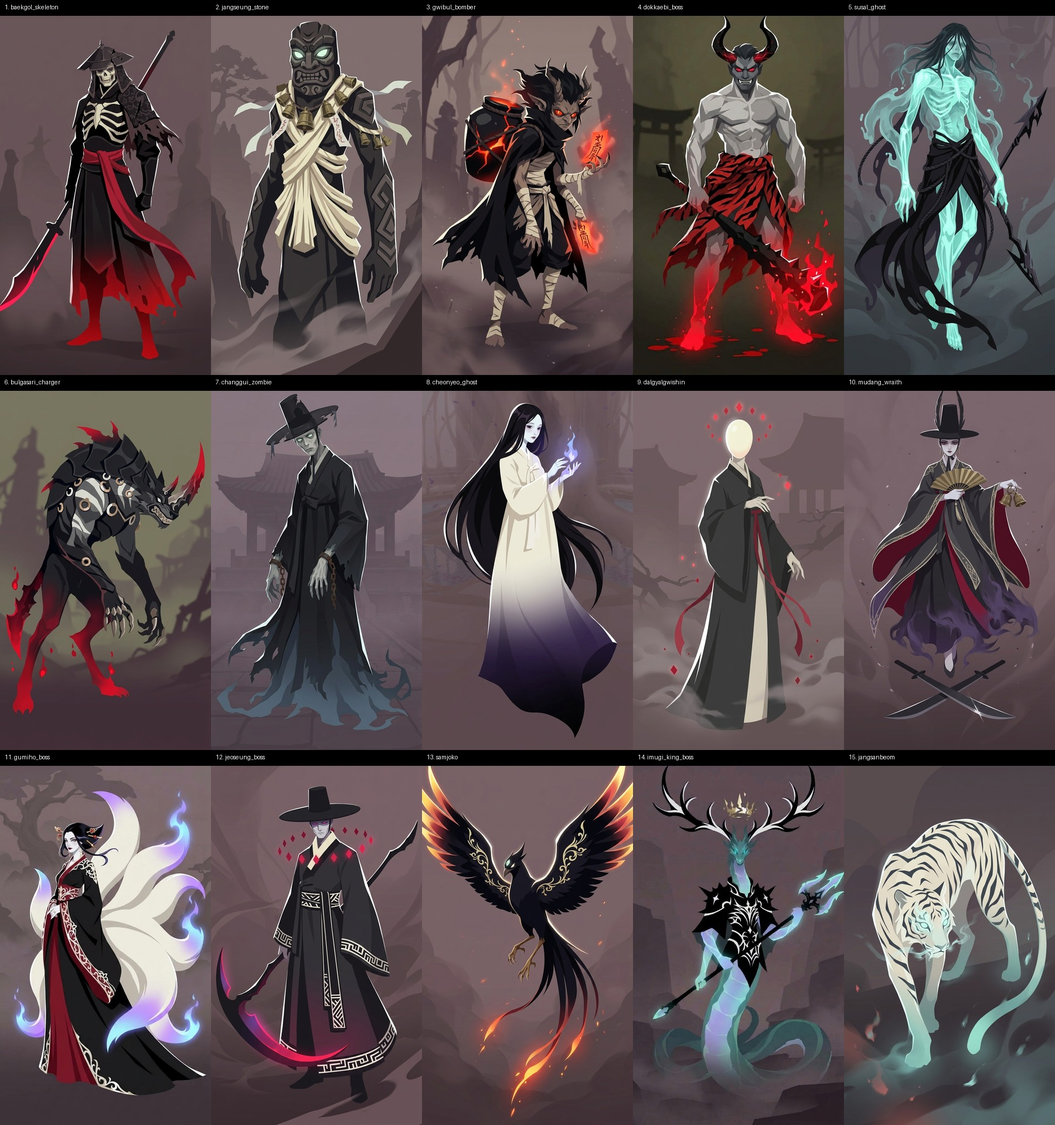
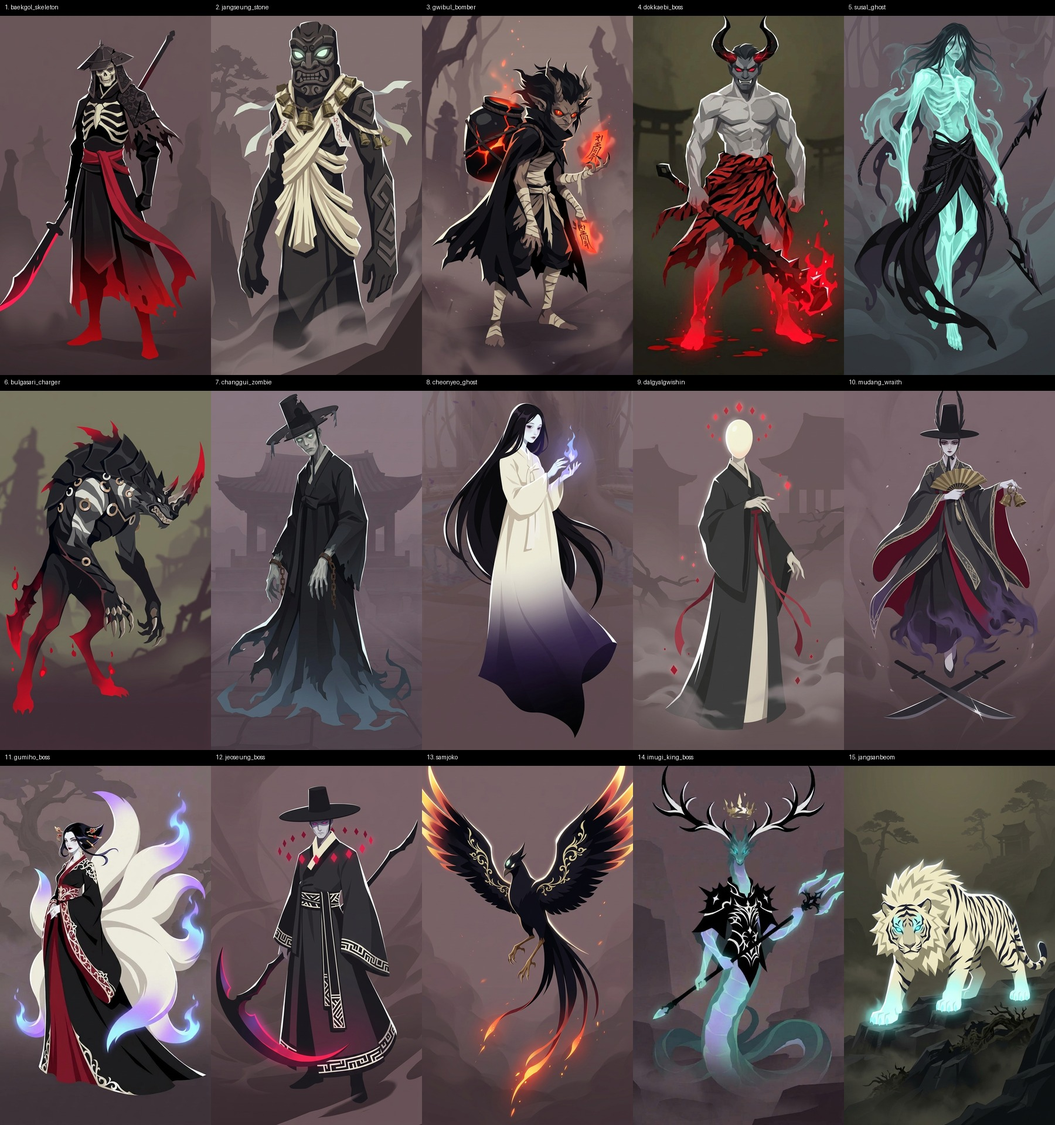
Align Gumiho back tails to c8cd28a views, match Jangsanbeom concept, restore Imugi 4-view and scale to 4.2m

Changed region(s): [[0.7778, 0.6562, 1.0, 1.0]]

diff --git a/scripts/build_eastern_monsters.py b/scripts/build_eastern_monsters.py
@@ -41,7 +41,7 @@ MONSTERS = {
     "jeoseung_boss":     ("robe",      2.45, 10500),
     # --- 4) Non-human specialized archetypes (3) ---
     "samjoko":           ("avian",     2.00,  8500),
-    "imugi_king_boss":   ("serpent",   2.90, 12000),
+    "imugi_king_boss":   ("serpent",   4.20, 14000),
     "jangsanbeom":       ("quadruped", 1.55,  9500),
 }
 
